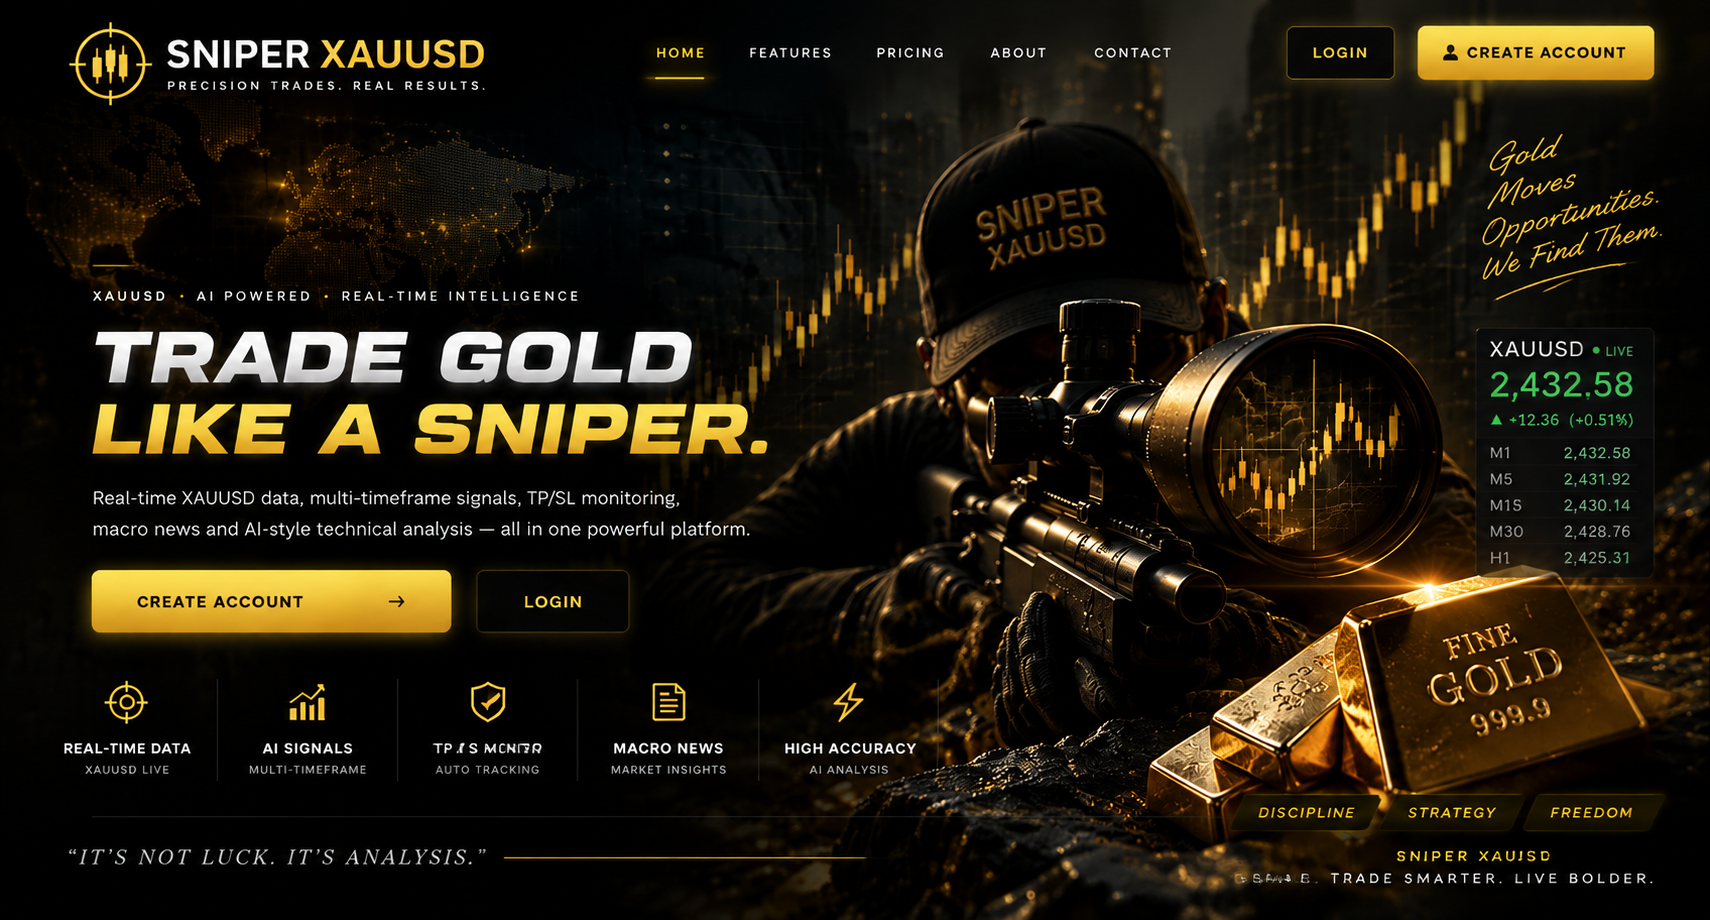
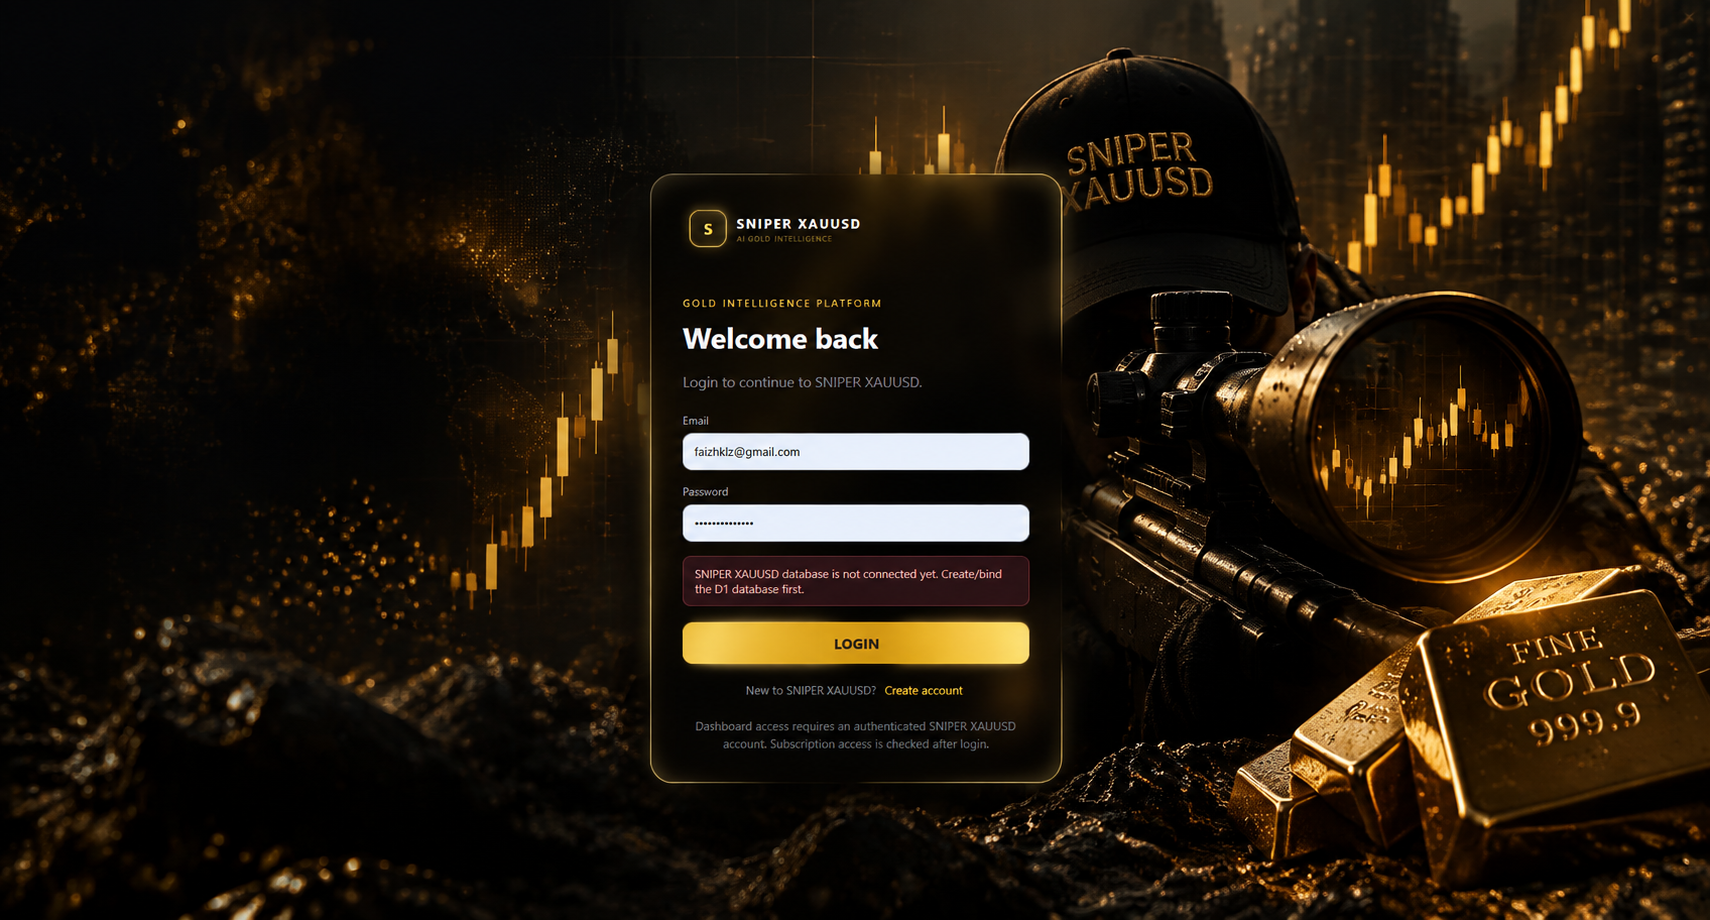
SNIPER_XAUUSD_v8_BG_UPDATE.

diff --git a/src/styles.css b/src/styles.css
@@ -3,6 +3,10 @@
 @media(max-width:560px){main{padding:13px 13px 82px}.big-price{font-size:32px}.dashboard-stats{grid-template-columns:repeat(2,1fr);gap:8px}.stat-card b{font-size:17px}.signal-grid{grid-template-columns:repeat(2,1fr)}.indicator-row{grid-template-columns:repeat(2,1fr)}footer{display:none}.panel{padding:13px}.chart{height:300px}.chart-empty{height:300px}.page-intro h2{font-size:21px}.hero-dashboard{padding:17px}.monitor-strip{padding:10px}.monitor-button{padding:6px 8px}}
 .latest-signal{display:grid;grid-template-columns:1.5fr repeat(3,1fr);gap:10px;border:1px solid #34233e;background:linear-gradient(90deg,#110b17,#0d0911);border-radius:13px;padding:12px 14px;margin-bottom:12px}.latest-signal>div{display:grid;gap:4px}.latest-signal span,.latest-signal small{font-size:8px;letter-spacing:.12em;color:#706276}.latest-signal b{font-size:13px}.latest-signal strong{font-size:11px;color:#e7dfeb}.news-status{font-size:9px;color:#8e7e95}.live-news{color:#63dca8;border-color:#194535}.news-event{min-height:185px}.event-top{display:flex;justify-content:space-between;align-items:center}.event-top small{color:#74677c;font-size:9px}.news-event h3{margin:15px 0 7px;font-size:14px}.event-time{font-size:10px;color:#9b8da1}.event-values{display:grid;grid-template-columns:repeat(3,1fr);gap:7px;margin-top:16px}.event-values span{background:#0a070e;border:1px solid #211727;border-radius:8px;padding:9px;display:grid;gap:4px}.event-values small{font-size:7px;letter-spacing:.1em;color:#675a70}.event-values b{font-size:10px;color:#d9d0de;word-break:break-word}
 @media(max-width:700px){.latest-signal{grid-template-columns:1fr 1fr}.latest-signal>div:first-child{grid-column:1/-1}.event-values{grid-template-columns:1fr 1fr}.news-event{min-height:auto}}
-.auth-wrap,.gate,.auth-loading{min-height:100vh;display:grid;place-items:center;background:radial-gradient(circle at 50% 0%,#24133d 0,#0b0710 45%,#050409 100%);color:#f5effb}.auth-card,.gate-card{width:min(460px,calc(100% - 32px));padding:34px;border:1px solid #342340;border-radius:22px;background:rgba(12,8,18,.94);box-shadow:0 30px 90px rgba(0,0,0,.45)}.auth-brand{margin-bottom:28px}.auth-kicker{font-size:11px;letter-spacing:2px;color:#9b87b5}.auth-card h1,.gate-card h1{margin:8px 0;font-size:32px}.auth-sub,.gate-card p{color:#a99db2;line-height:1.6}.auth-card form{display:grid;gap:15px;margin-top:22px}.auth-card label{display:grid;gap:7px;font-size:12px;color:#b9aeca}.auth-card input{width:100%;box-sizing:border-box;border:1px solid #382747;background:#0b0710;color:#fff;border-radius:10px;padding:12px}.auth-submit{width:100%;margin-top:5px}.auth-switch{text-align:center;color:#9689a1;font-size:13px;margin-top:18px}.auth-switch button{background:none;border:0;color:#c9a8ff;cursor:pointer}.auth-note{display:block;text-align:center;color:#71677b;margin-top:20px;line-height:1.5}.auth-error{padding:10px 12px;border:1px solid #67303b;background:#281018;color:#ffb8c0;border-radius:9px;font-size:13px}.landing{min-height:100vh;background:linear-gradient(90deg,rgba(5,4,9,.92) 0%,rgba(5,4,9,.72) 45%,rgba(5,4,9,.25)),url("/public_landing.png") center/cover no-repeat;color:#f7f2fb;padding:28px 7%;box-sizing:border-box}.landing-top{display:flex;justify-content:space-between;align-items:center}.landing-hero{max-width:800px;padding:14vh 0 10vh}.landing-hero h1{font-size:clamp(46px,7vw,88px);line-height:.98;margin:15px 0}.landing-hero em{font-style:normal;color:#f4c542}.landing-hero p{max-width:650px;color:#aaa0b4;font-size:18px;line-height:1.7}.gold-btn{background:linear-gradient(135deg,#ffe28a,#d4af37);color:#111;border:0;border-radius:10px;padding:17px 42px;font-weight:900;letter-spacing:.08em;cursor:pointer;box-shadow:0 0 28px rgba(212,175,55,.45);transition:.3s}.gold-btn:hover{transform:translateY(-3px);box-shadow:0 0 45px rgba(212,175,55,.8)}.dark-btn{background:rgba(0,0,0,.55);color:#f5d76e;border:1px solid #d4af37;border-radius:10px;padding:17px 42px;font-weight:800;letter-spacing:.08em;cursor:pointer}.landing-actions{display:flex;gap:12px;margin-top:30px}.ghost{border:1px solid #473354;background:transparent;color:#eee4f6;border-radius:10px;padding:11px 18px;cursor:pointer}.wide{width:100%;margin-top:12px}.landing-features{display:flex;flex-wrap:wrap;gap:12px;border-top:1px solid #261b30;padding-top:22px;color:#8e829a;font-size:11px;letter-spacing:1px}.user-chip{font-size:11px;color:#a99bb5;max-width:180px;overflow:hidden;text-overflow:ellipsis}.logout-btn{border:0;background:none;color:#9d8ea9;cursor:pointer;font-size:12px}.gate{text-align:center}.gate-card{max-width:500px}.gate-info{text-align:left;border:1px solid #30213a;padding:14px;border-radius:12px;margin:22px 0}.gate-info span{display:block;color:#7f7289;font-size:11px}.gate-info b{display:block;margin-top:4px;overflow:hidden;text-overflow:ellipsis}.gate-card small{display:block;color:#70667a;line-height:1.5;margin-top:18px}
+.auth-wrap,.gate,.auth-loading{min-height:100vh;display:grid;place-items:center;background:
+linear-gradient(90deg,rgba(5,5,8,.82),rgba(5,5,8,.35)),
+url("/public_landing.png") center/cover no-repeat;color:#f5effb}.auth-card,.gate-card{width:min(460px,calc(100% - 32px));padding:34px;border:1px solid #342340;border-radius:22px;background:rgba(12,8,18,.94);box-shadow:0 30px 90px rgba(0,0,0,.45)}.auth-brand{margin-bottom:28px}.auth-kicker{font-size:11px;letter-spacing:2px;color:#9b87b5}.auth-card h1,.gate-card h1{margin:8px 0;font-size:32px}.auth-sub,.gate-card p{color:#a99db2;line-height:1.6}.auth-card form{display:grid;gap:15px;margin-top:22px}.auth-card label{display:grid;gap:7px;font-size:12px;color:#b9aeca}.auth-card input{width:100%;box-sizing:border-box;border:1px solid #382747;background:#0b0710;color:#fff;border-radius:10px;padding:12px}.auth-submit{width:100%;margin-top:5px}.auth-switch{text-align:center;color:#9689a1;font-size:13px;margin-top:18px}.auth-switch button{background:none;border:0;color:#c9a8ff;cursor:pointer}.auth-note{display:block;text-align:center;color:#71677b;margin-top:20px;line-height:1.5}.auth-error{padding:10px 12px;border:1px solid #67303b;background:#281018;color:#ffb8c0;border-radius:9px;font-size:13px}.landing{min-height:100vh;background:
+linear-gradient(90deg,rgba(5,4,9,.88) 0%,rgba(5,4,9,.55) 55%,rgba(5,4,9,.2)),
+url("/public_landing.png") center/cover no-repeat;color:#f7f2fb;padding:28px 7%;box-sizing:border-box}.landing-top{display:flex;justify-content:space-between;align-items:center}.landing-hero{max-width:800px;padding:14vh 0 10vh}.landing-hero h1{font-size:clamp(46px,7vw,88px);line-height:.98;margin:15px 0}.landing-hero em{font-style:normal;color:#f4c542}.landing-hero p{max-width:650px;color:#aaa0b4;font-size:18px;line-height:1.7}.landing-actions{display:flex;gap:12px;margin-top:30px}.ghost{border:1px solid #473354;background:transparent;color:#eee4f6;border-radius:10px;padding:11px 18px;cursor:pointer}.wide{width:100%;margin-top:12px}.landing-features{display:flex;flex-wrap:wrap;gap:12px;border-top:1px solid #261b30;padding-top:22px;color:#8e829a;font-size:11px;letter-spacing:1px}.user-chip{font-size:11px;color:#a99bb5;max-width:180px;overflow:hidden;text-overflow:ellipsis}.logout-btn{border:0;background:none;color:#9d8ea9;cursor:pointer;font-size:12px}.gate{text-align:center}.gate-card{max-width:500px}.gate-info{text-align:left;border:1px solid #30213a;padding:14px;border-radius:12px;margin:22px 0}.gate-info span{display:block;color:#7f7289;font-size:11px}.gate-info b{display:block;margin-top:4px;overflow:hidden;text-overflow:ellipsis}.gate-card small{display:block;color:#70667a;line-height:1.5;margin-top:18px}
 @media(max-width:700px){.auth-card,.gate-card{padding:24px}.landing{padding:22px}.landing-hero{padding:12vh 0 9vh}.landing-hero h1{font-size:48px}.landing-hero p{font-size:16px}.landing-actions{flex-direction:column}.landing-actions button{width:100%}.user-chip{display:none}}
 .admin-summary{display:flex;align-items:center;gap:14px}.admin-summary b,.admin-summary span{display:block}.admin-summary span{color:var(--muted);margin-top:4px}.admin-table-wrap{overflow:hidden}.table-scroll{overflow:auto}.admin-table{width:100%;border-collapse:collapse;min-width:850px}.admin-table th,.admin-table td{padding:14px 12px;border-bottom:1px solid rgba(255,255,255,.07);text-align:left;white-space:nowrap}.admin-table th{font-size:10px;letter-spacing:.12em;color:var(--muted)}.admin-table td small{display:block;color:var(--muted);margin-top:4px}.admin-actions{display:flex;gap:7px}.small-btn{border:1px solid rgba(255,255,255,.12);background:#15101d;color:#eee;border-radius:8px;padding:8px 10px;font-size:10px;font-weight:800;cursor:pointer}.small-btn:hover{border-color:#9b5cff}.small-btn:disabled{opacity:.5;cursor:not-allowed}

diff --git a/src/main.jsx b/src/main.jsx
@@ -89,7 +89,7 @@ function AuthScreen({ mode, setMode, onAuthed }) {
   async function submit(e){ e.preventDefault(); setError(""); if(mode==="register" && password!==confirm){setError("Password confirmation does not match.");return;} setBusy(true); try{ const r=await fetch(`/api/auth/${mode}`,{method:"POST",headers:{"content-type":"application/json"},body:JSON.stringify({email,name,password})}); const j=await r.json(); if(!r.ok) throw new Error(j.error||"Request failed"); onAuthed(j.user); }catch(err){setError(err.message)}finally{setBusy(false)} }
   return <div className="auth-wrap"><div className="auth-card"><div className="brand auth-brand"><div className="logo">A</div><div><strong>SNIPER XAUUSD</strong><small>AI GOLD INTELLIGENCE</small></div></div><div className="auth-kicker">GOLD INTELLIGENCE PLATFORM</div><h1>{mode==="register"?"Create your SNIPER XAUUSD account":"Welcome back"}</h1><p className="auth-sub">{mode==="register"?"Register first to access the SNIPER XAUUSD dashboard.":"Login to continue to SNIPER XAUUSD."}</p><form onSubmit={submit}>{mode==="register"&&<label>Name<input value={name} onChange={e=>setName(e.target.value)} placeholder="Your name" required/></label>}<label>Email<input type="email" value={email} onChange={e=>setEmail(e.target.value)} placeholder="you@example.com" required/></label><label>Password<input type="password" value={password} onChange={e=>setPassword(e.target.value)} placeholder="••••••••" minLength="8" required/></label>{mode==="register"&&<label>Confirm Password<input type="password" value={confirm} onChange={e=>setConfirm(e.target.value)} placeholder="••••••••" minLength="8" required/></label>}{error&&<div className="auth-error">{error}</div>}<button className="primary auth-submit" disabled={busy}>{busy?"Please wait…":mode==="register"?"CREATE ACCOUNT":"LOGIN"}</button></form><div className="auth-switch">{mode==="register"?<>Already registered? <button onClick={()=>setMode("login")}>Login</button></>:<>New to SNIPER XAUUSD? <button onClick={()=>setMode("register")}>Create account</button></>}</div><small className="auth-note">Dashboard access requires an authenticated SNIPER XAUUSD account. Subscription access is checked after login.</small></div></div>;
 }
-function Landing({ onStart }) { return <div className="landing"><div className="landing-top"><div className="brand"><div className="logo">S</div><div><strong>SNIPER XAUUSD</strong><small>AI GOLD INTELLIGENCE</small></div></div></div><div className="landing-hero"><span className="muted">XAUUSD · AI POWERED PRECISION TRADING</span><h1>TRADE GOLD LIKE A<br/><em>SNIPER.</em></h1><p>Real-time XAUUSD data, AI signals, TP/SL monitoring and multi-timeframe analysis in one elite trading platform.</p><div className="landing-actions"><button className="gold-btn" onClick={()=>onStart("register")}>CREATE ACCOUNT →</button><button className="dark-btn" onClick={()=>onStart("login")}>LOGIN</button></div></div></div> }
+function Landing({ onStart }) { return <div className="landing"><div className="landing-top"><div className="brand"><div className="logo">A</div><div><strong>SNIPER XAUUSD</strong><small>AI GOLD INTELLIGENCE</small></div></div><button className="ghost" onClick={()=>onStart("login")}>LOGIN</button></div><div className="landing-hero"><span className="muted">XAUUSD · AI POWERED PRECISION TRADING</span><h1>TRADE GOLD LIKE A<br/><em>SNIPER.</em></h1><p>Real-time XAUUSD data, sniper AI signals, TP/SL monitoring, macro news and multi-timeframe analysis in one elite trading platform.</p><div className="landing-actions"><button className="primary" onClick={()=>onStart("register")}>CREATE ACCOUNT</button><button className="ghost" onClick={()=>onStart("login")}>LOGIN</button></div></div><div className="landing-features"><span>LIVE XAUUSD</span><span>M1 · M5 · M15 · M30 · H1</span><span>TP1 · TP2 · SL · BE MONITOR</span><span>HIGH-IMPACT NEWS</span></div></div> }
 function SubscriptionGate({ user, onLogout }) { return <div className="gate"><div className="gate-card"><div className="brand auth-brand"><div className="logo">A</div><div><strong>SNIPER XAUUSD</strong><small>AI GOLD INTELLIGENCE</small></div></div><span className="muted">ACCOUNT ACCESS</span><h1>Subscription required</h1><p>Your account is registered, but an active subscription is required to open the trading dashboard.</p><div className="gate-info"><span>Account</span><b>{user?.email}</b></div><button className="primary">VIEW PLANS</button><button className="ghost wide" onClick={onLogout}>LOG OUT</button><small>Payment and automatic subscription activation will be connected after the membership system is configured.</small></div></div> }
 function AdminPanel({user}) {
   const [users,setUsers]=useState([]), [busy,setBusy]=useState(false), [error,setError]=useState("");
